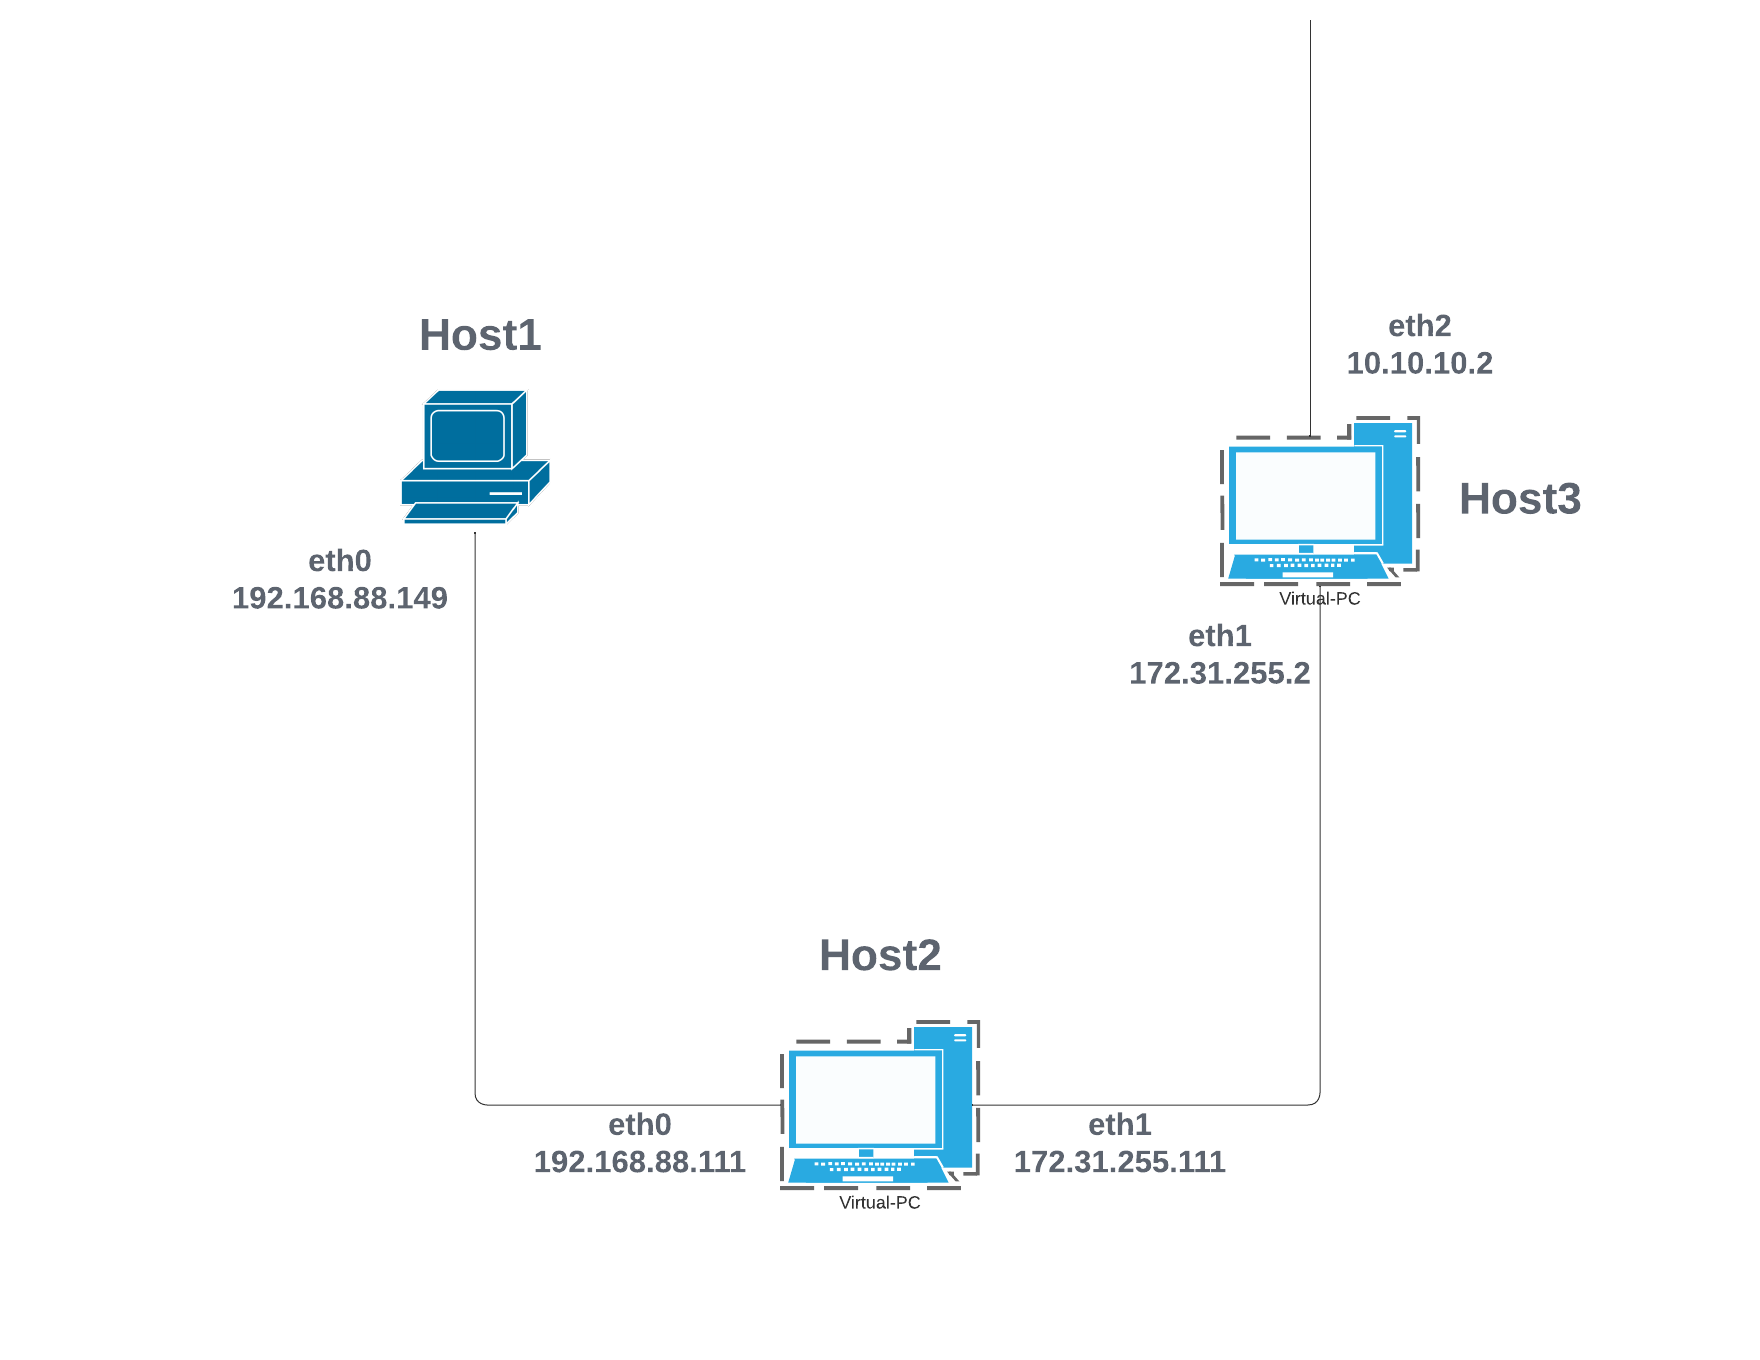
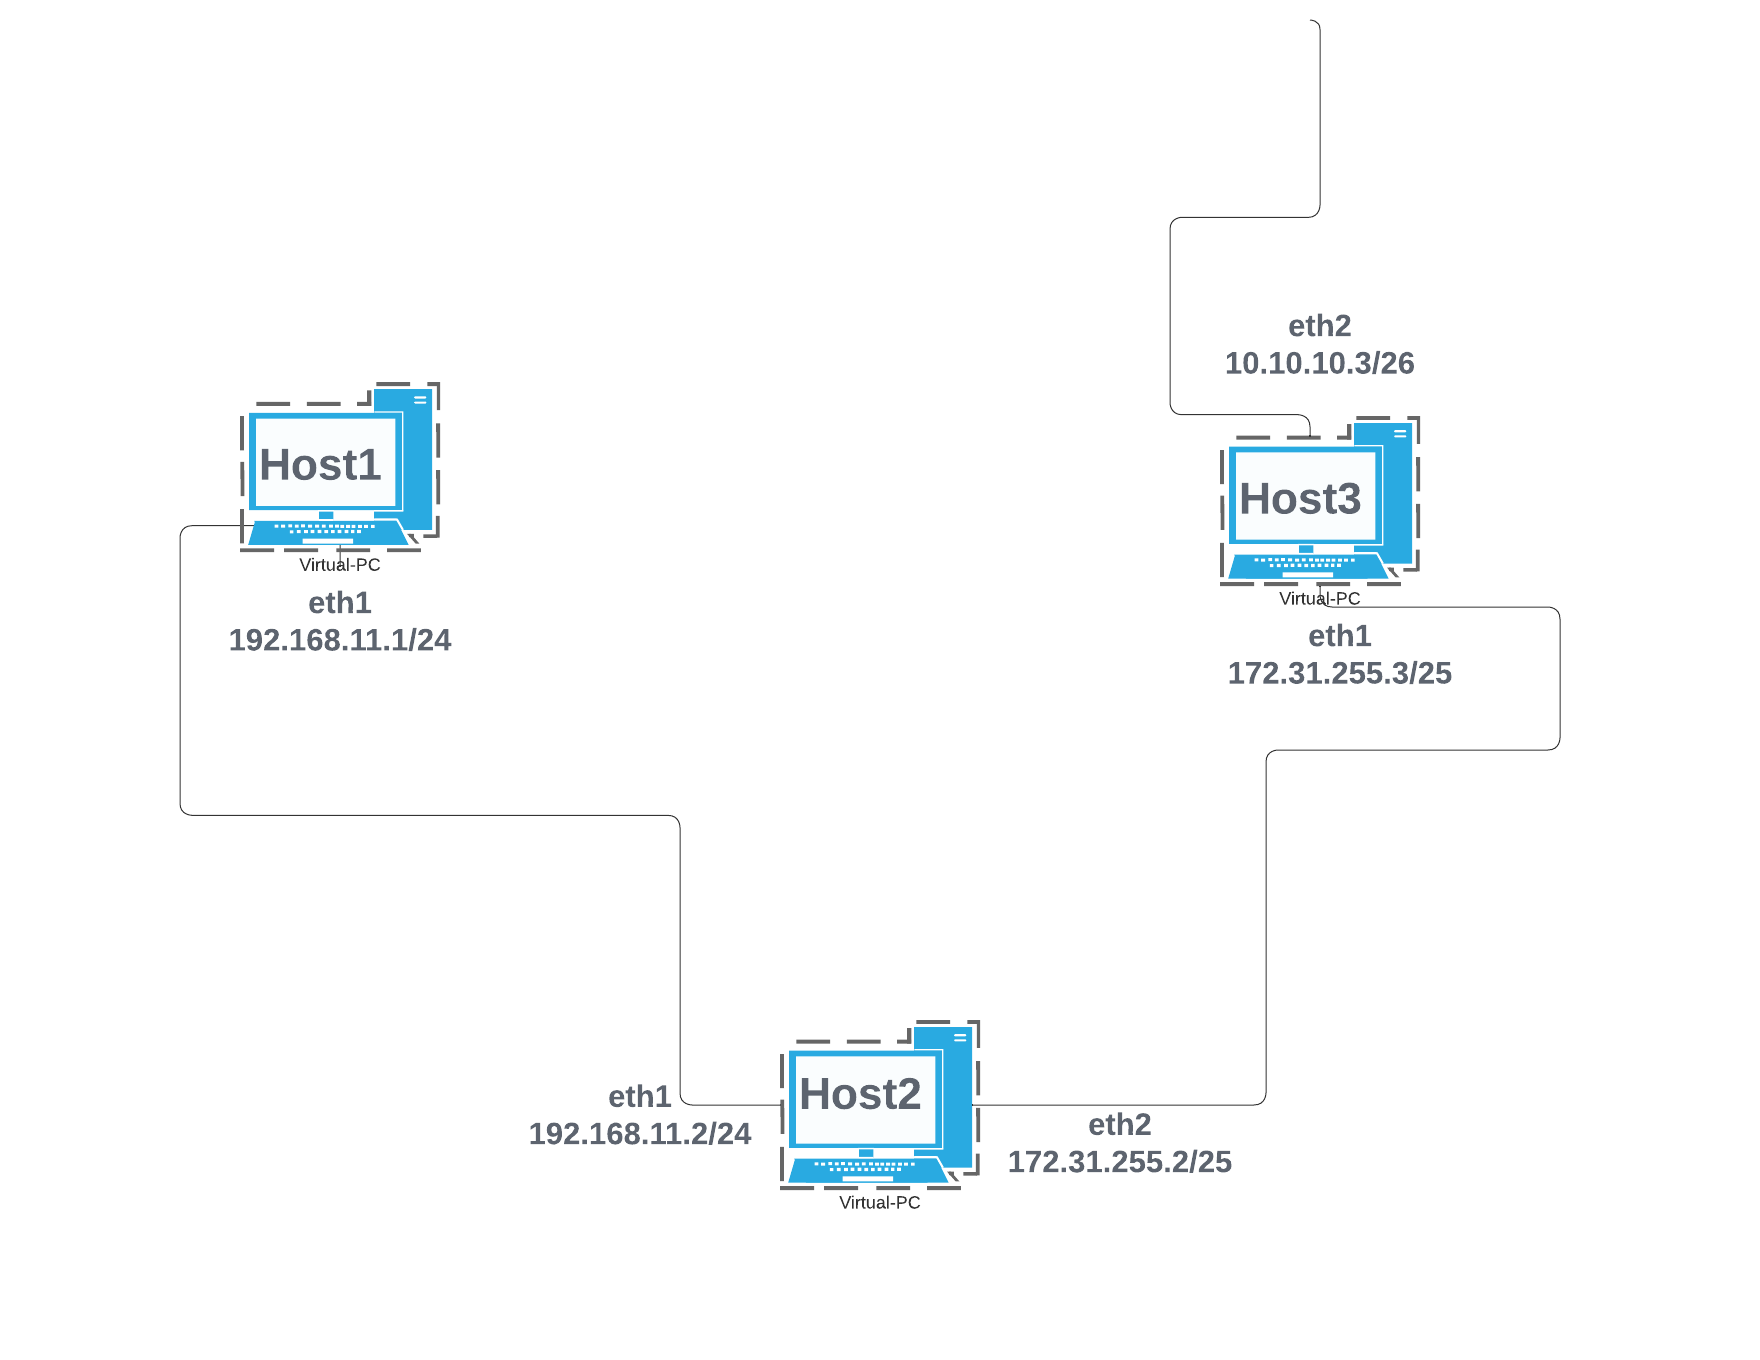
fix static routes

diff --git a/DEVOPS-053/README.md b/DEVOPS-053/README.md
@@ -6,13 +6,13 @@
 
 
 ### **Hosts:**
-1. Working Host (WIndows 10 non-virtualized).
-2. Main testing host (Ubuntu 20.04 virtualized).
-3. Additional testing host (Ubuntu 20.04 virtualized).
+1. Host1 (Ubuntu 20.04 virtualized).
+2. Host2 (Ubuntu 20.04 virtualized).
+3. Host3 (Ubuntu 20.04 virtualized).
 
 
 ### **Subnets:**
-1. 192.168.88.0/24.
+1. 192.168.11.0/24.
 2. 172.31.255.0/25.
 3. 10.10.10.0/26.
 
@@ -22,185 +22,72 @@
 
 ## **Set static routing**
 ### **1. On host1**
-We need to add static route to the third subnet only:
+
 ```console
-route add 10.10.10.0 mask 255.255.255.192 172.31.255.2
+ip link set eth0 down   # eliminate impact of virtual switch and DHCP
+ip link set eth1 up
+ip a add 192.168.11.1/24 dev eth1
+ip route add 172.31.255.0/25 via 192.168.11.2 dev eth1
+ip route add 10.10.10.0/26 via 192.168.1.2 dev eth1
 ```
 
 ### **2. On host2**
-2.1. Enable new network interface and add static IP:
+
 ```console
+ip link set eth0 down   # eliminate impact of virtual switch and DHCP
 ip link set eth1 up
-ip a add 172.31.255.111/25 dev eth1
-```
-2.2. Set static route to the third subnet via eth1:
-```console
-ip route add 10.10.10.0/26 via 172.31.255.111 dev eth1
+ip link set eth2 up
+ip a add 192.168.11.2/24 dev eth1
+ip a add 172.31.255.2/25 dev eth2
+ip route add 10.10.10.0/26 via 172.31.255.3 dev eth2
+iptables -P FORWARD ACCEPT
 ```
 
 ### **3. On host3**
-3.1. Disable network interface with DHCP-pulled IP: 
+
 ```console
-ip link set eth0 down
-```
-3.2. Enable new network interface eth1 and add static IP:
-```console
+ip link set eth0 down   # eliminate impact of virtual switch and DHCP
 ip link set eth1 up
-ip a add 172.31.255.2/25 dev eth1
-```
-3.3. Enable new network interface eth2 and add static IP:
-```console
 ip link set eth2 up
-ip a add 10.10.10.2/26 dev eth2
-```
-3.4. Set static route to the first subnet via eth1:
-```console
-ip route add 192.168.88.0/24 via 172.31.255.111 dev eth1
+ip a add 172.31.255.3/25 dev eth1
+ip a add 10.10.10.3/26 dev eth2
+ip route add 192.168.11.0/24 via 172.31.255.2 dev eth1
 ```
 
 
 ## **Validating the task**
 ### **1. Network connectivity from host1 to eth2 host3**
 
-**`ping 10.10.10.2`**
-```
-Обмен пакетами с 10.10.10.2 по с 32 байтами данных:
-Ответ от 10.10.10.2: число байт=32 время<1мс TTL=63
-Ответ от 10.10.10.2: число байт=32 время<1мс TTL=63
-Ответ от 10.10.10.2: число байт=32 время<1мс TTL=63
-Ответ от 10.10.10.2: число байт=32 время<1мс TTL=63
+**`ping 10.10.10.3`**
 
-Статистика Ping для 10.10.10.2:
-    Пакетов: отправлено = 4, получено = 4, потеряно = 0
-    (0% потерь)
-Приблизительное время приема-передачи в мс:
-    Минимальное = 0мсек, Максимальное = 0 мсек, Среднее = 0 мсек
-```
+![ping 10.10.10.3](/DEVOPS-053/ping_10.10.10.3.png)
 
-### **2. Network connectivity from host3 to eth0 host2**
-**`ping 192.168.88.111`**
-```
-PING 192.168.88.111 (192.168.88.111) 56(84) bytes of data.
-64 bytes from 192.168.88.111: icmp_seq=1 ttl=64 time=0.030 ms
-64 bytes from 192.168.88.111: icmp_seq=2 ttl=64 time=0.032 ms
-64 bytes from 192.168.88.111: icmp_seq=3 ttl=64 time=0.022 ms
-^C
---- 192.168.88.111 ping statistics ---
-3 packets transmitted, 3 received, 0% packet loss, time 2052ms
-rtt min/avg/max/mdev = 0.022/0.028/0.032/0.004 ms
-```
+### **2. Network connectivity from host3 to eth1 host2**
+**`ping 192.168.11.2`**
+
+![ping 192.168.11.2](/DEVOPS-053/ping_192.168.11.2.png)
 
 ### **3. Curl from host3 to nginx host2**
-**`curl -Ik 192.168.88.111:80`**
+**`curl -Ik --resolve main.fabric:80:192.168.11.2 http://main.fabric`**
 
-```
-HTTP/1.1 403 Forbidden
-Server: nginx/1.20.1
-Date: Sun, 22 May 2022 16:20:28 GMT
-Content-Type: text/html
-Content-Length: 153
-Connection: keep-alive
-```
+![Curl from host3 to nginx host2](/DEVOPS-053/curl_host3-nginx_host2.png)
 
 ### **4. IP routing table on host1**
 
-**`route print`**
+**`ip route show`**
 
-```
-===========================================================================
-Список интерфейсов
- 26...........................Wintun Userspace Tunnel
- 27...........................Windscribe Windtun420
- 15...00 ff 67 21 a2 e8 ......TAP-Windows Adapter V9
- 16...00 ff 69 fe 35 e1 ......Windscribe VPN
- 22...18 c0 4d da a6 33 ......Hyper-V Virtual Ethernet Adapter
- 19...00 1a 7d da 71 11 ......Bluetooth Device (Personal Area Network)
-  1...........................Software Loopback Interface 1
- 48...00 15 5d a0 38 d7 ......Hyper-V Virtual Ethernet Adapter #2
- 55...00 15 5d 80 a8 7b ......Hyper-V Virtual Ethernet Adapter #3
- 63...00 15 5d 60 1e 16 ......Hyper-V Virtual Ethernet Adapter #4
-===========================================================================
-
-IPv4 таблица маршрута
-===========================================================================
-Активные маршруты:
-Сетевой адрес           Маска сети      Адрес шлюза       Интерфейс  Метрика
-          0.0.0.0          0.0.0.0     192.168.88.1   192.168.88.149     35
-       10.10.10.0  255.255.255.192   192.168.88.111   192.168.88.149     36
-        127.0.0.0        255.0.0.0         On-link         127.0.0.1    331
-        127.0.0.1  255.255.255.255         On-link         127.0.0.1    331
-  127.255.255.255  255.255.255.255         On-link         127.0.0.1    331
-      172.17.96.0    255.255.240.0         On-link       172.17.96.1   5256
-      172.17.96.1  255.255.255.255         On-link       172.17.96.1   5256
-   172.17.111.255  255.255.255.255         On-link       172.17.96.1   5256
-     172.18.112.0    255.255.240.0         On-link      172.18.112.1   5256
-     172.18.112.1  255.255.255.255         On-link      172.18.112.1   5256
-   172.18.127.255  255.255.255.255         On-link      172.18.112.1   5256
-     172.29.160.0    255.255.240.0         On-link      172.29.160.1   5256
-     172.29.160.1  255.255.255.255         On-link      172.29.160.1   5256
-   172.29.175.255  255.255.255.255         On-link      172.29.160.1   5256
-     192.168.88.0    255.255.255.0         On-link    192.168.88.149    291
-   192.168.88.149  255.255.255.255         On-link    192.168.88.149    291
-   192.168.88.255  255.255.255.255         On-link    192.168.88.149    291
-        224.0.0.0        240.0.0.0         On-link         127.0.0.1    331
-        224.0.0.0        240.0.0.0         On-link    192.168.88.149    291
-        224.0.0.0        240.0.0.0         On-link       172.17.96.1   5256
-        224.0.0.0        240.0.0.0         On-link      172.18.112.1   5256
-        224.0.0.0        240.0.0.0         On-link      172.29.160.1   5256
-  255.255.255.255  255.255.255.255         On-link         127.0.0.1    331
-  255.255.255.255  255.255.255.255         On-link    192.168.88.149    291
-  255.255.255.255  255.255.255.255         On-link       172.17.96.1   5256
-  255.255.255.255  255.255.255.255         On-link      172.18.112.1   5256
-  255.255.255.255  255.255.255.255         On-link      172.29.160.1   5256
-===========================================================================
-Постоянные маршруты:
-  Отсутствует
-
-IPv6 таблица маршрута
-===========================================================================
-Активные маршруты:
- Метрика   Сетевой адрес            Шлюз
-  1    331 ::1/128                  On-link
- 48   5256 fe80::/64                On-link
- 55   5256 fe80::/64                On-link
- 63   5256 fe80::/64                On-link
- 63   5256 fe80::29f0:3175:37b2:374c/128
-                                    On-link
- 55   5256 fe80::68d3:c014:6cd1:bc2f/128
-                                    On-link
- 48   5256 fe80::95af:80d:2d08:da5c/128
-                                    On-link
-  1    331 ff00::/8                 On-link
- 48   5256 ff00::/8                 On-link
- 55   5256 ff00::/8                 On-link
- 63   5256 ff00::/8                 On-link
-===========================================================================
-Постоянные маршруты:
-  Отсутствует
-```
+![IP routing table on host1](/DEVOPS-053/host1_routes.png)
 
 
 ### **5. IP routing table on host2**
 
 **`ip route show`**
 
-```console
-default via 192.168.88.1 dev eth0 proto dhcp src 192.168.88.111 metric 100
-10.10.10.0/26 via 172.31.255.111 dev eth1
-172.17.0.0/16 dev docker0 proto kernel scope link src 172.17.0.1 linkdown
-172.31.255.0/25 dev eth1 proto kernel scope link src 172.31.255.111
-192.168.88.0/24 dev eth0 proto kernel scope link src 192.168.88.111
-192.168.88.1 dev eth0 proto dhcp scope link src 192.168.88.111 metric 100
-```
+![IP routing table on host2](/DEVOPS-053/host2_routes.png)
 
 
 ### **6. IP routing table on host3**
 
 **`ip route show`**
 
-```console
-10.10.10.0/26 dev eth2 proto kernel scope link src 10.10.10.2
-172.17.0.0/16 dev docker0 proto kernel scope link src 172.17.0.1 linkdown
-172.31.255.0/25 dev eth1 proto kernel scope link src 172.31.255.2
-192.168.88.0/24 via 172.31.255.111 dev eth1
-```
+![IP routing table on host3](/DEVOPS-053/host3_routes.png)
